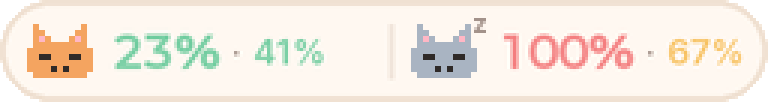
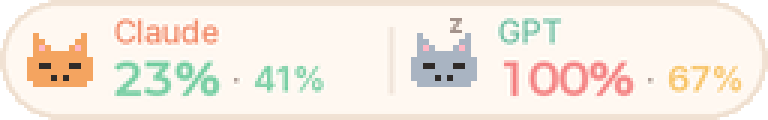
v1.0.5: 미니 모드에 Claude/GPT 라벨 추가 (높이 40), 잠든 고양이 z 위치 조정

diff --git a/usage_widget.py b/usage_widget.py
@@ -49,7 +49,7 @@ except Exception:  # noqa: BLE001
 import logging
 from logging.handlers import RotatingFileHandler
 
-VERSION = "1.0.4"
+VERSION = "1.0.5"
 LOG_PATH = Path(__file__).with_name("widget.log")
 logging.basicConfig(handlers=[RotatingFileHandler(LOG_PATH, maxBytes=200_000, backupCount=1, encoding="utf-8")],
                     level=logging.INFO, format="%(asctime)s %(levelname)s %(message)s")
@@ -107,7 +107,8 @@ SEC_W = 278                # 제공자 한 칸 너비 (카드)
 MINI_SEC_W = 128           # 제공자 한 칸 너비 (미니)
 W, H = 4 + SEC_W * 2, 126
 RADIUS = 16
-MINI_W, MINI_H = MINI_SEC_W * 2, 34   # 작업표시줄 미니 모드 크기
+MINI_W, MINI_H = MINI_SEC_W * 2, 40   # 작업표시줄 미니 모드 크기 (라벨 1줄 + 퍼센트 1줄)
+MINI_NUM_Y = 26                       # 미니 모드 퍼센트 줄의 세로 중심
 
 
 def apply_layout(show_gpt=True):
@@ -1028,7 +1029,7 @@ class Widget(tk.Tk):
             pct5 = ((self.usage.get(pkey) or {}).get("primary") or {}).get("used_percent")
             sleeping = pct5 is None or pct5 >= 100
             if self.mini:
-                self._cat_head(d, 9 + i * MINI_SEC_W, 8, self._anim[pkey]["frame"], body, mark, sleeping)
+                self._cat_head(d, 9 + i * MINI_SEC_W, 11, self._anim[pkey]["frame"], body, mark, sleeping)
             else:
                 ox = 10 + i * SEC_W
                 self._cat(d, ox, 9, self._anim[pkey]["frame"], body, mark, sleeping)
@@ -1056,16 +1057,17 @@ class Widget(tk.Tk):
             t5 = "–" if p5 is None else f"{int(round(p5))}%"
             t7 = "–" if p7 is None else f"{int(round(p7))}%"
             x = ox + 30
-            d.text((x * S, (MINI_H / 2) * S), t5, font=self.f_num,
+            d.text((x * S, 4 * S), name, font=self.f_tiny, fill=accent)           # 서비스 라벨 (윗줄)
+            d.text((x * S, MINI_NUM_Y * S), t5, font=self.f_num,
                    fill=(C_STALE if stale else pct_color(p5)), anchor="lm")
             x += d.textlength(t5, font=self.f_num) / S + 4
-            d.text((x * S, (MINI_H / 2) * S), "·", font=self.f_tiny, fill=INK_SOFT, anchor="lm")
+            d.text((x * S, MINI_NUM_Y * S), "·", font=self.f_tiny, fill=INK_SOFT, anchor="lm")
             x += 7
-            d.text((x * S, (MINI_H / 2) * S), t7, font=self.f_small,
+            d.text((x * S, MINI_NUM_Y * S), t7, font=self.f_small,
                    fill=(C_STALE if stale else pct_color(p7)), anchor="lm")
             if i < len(PROVIDERS) - 1:
                 lx = (ox + half - 6) * S
-                d.line((lx, 8 * S, lx, (MINI_H - 8) * S), fill=TRACK, width=2 * S)
+                d.line((lx, 9 * S, lx, (MINI_H - 9) * S), fill=TRACK, width=2 * S)
         out = img.resize((MINI_W, MINI_H), Image.LANCZOS)
         mask = Image.new("L", (MINI_W, MINI_H), 0)
         ImageDraw.Draw(mask).rounded_rectangle((0, 0, MINI_W - 1, MINI_H - 1), radius=MINI_H // 2, fill=255)
@@ -1181,7 +1183,7 @@ class Widget(tk.Tk):
                     d.rectangle((x0, y0, x0 + px - 1, y0 + px - 1), fill=col)
         if sleeping:
             phase = (self._ticks // 6) % 3
-            d.text((x + 11 * px - 2, y - 6 + phase * 2), "z", font=self.f_z, fill=INK_SOFT)
+            d.text((x + 6 * px, y - 9 + phase * 2), "z", font=self.f_z, fill=INK_SOFT)  # 머리 위 중앙 (라벨과 겹치지 않게)
 
     def _cat(self, d, x, y, fi, body, mark, sleeping, px=CAT_PX):
         colors = {"b": body, "s": mark, "e": "#2f2a28", "p": "#ffb7c5", "m": "#2f2a28", "-": "#2f2a28"}
